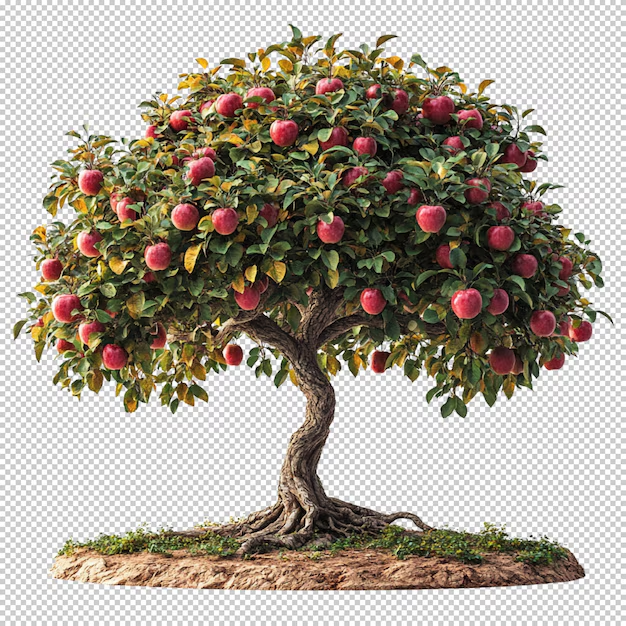
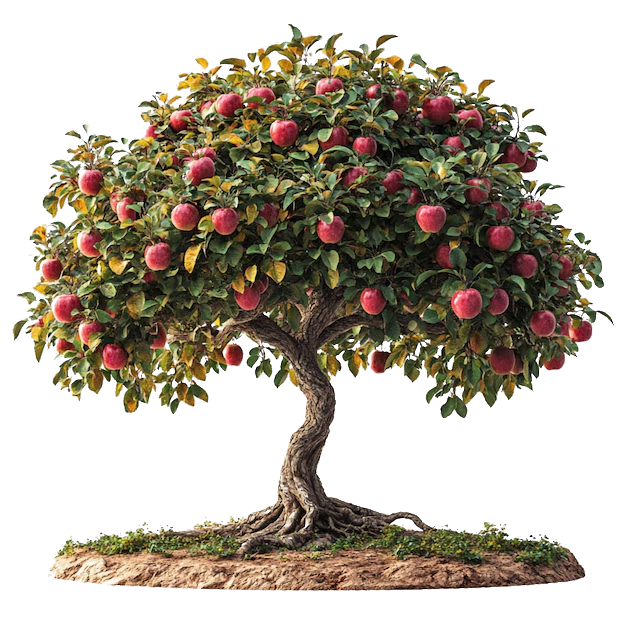
Phase1 Step16 [FE]: настоящая прозрачность tree.png (chroma-key вместо CSS-фона)
CSS background-color не мог решить проблему — tree.png был полностью
непрозрачным PNG (colorType 2, без альфа-канала), клетки были впечатаны
прямо в пиксели, а не паттерном под картинкой. Убрали шахматку
программным chroma-key (нейтральные яркие пиксели → альфа), пересохранили
как RGBA. Убрали более ненужный style backgroundColor из AuthPanel —
теперь дерево прозрачно на любом фоне, не только на текущем зелёном.

Changed region(s): [[0.0, 0.0, 1.0, 1.0]]

diff --git a/Frontend/src/components/layout/AuthPanel.tsx b/Frontend/src/components/layout/AuthPanel.tsx
@@ -101,7 +101,7 @@ export function AuthPanel() {
           </span>
         </div>
 
-        <div className="relative mx-auto aspect-630/628 w-full max-w-107.5" style={{ backgroundColor: "#1a482a" }}>
+        <div className="relative mx-auto aspect-630/628 w-full max-w-107.5">
           <motion.img
             src={treePhoto}
             alt={t("authPanel.heroAlt")}